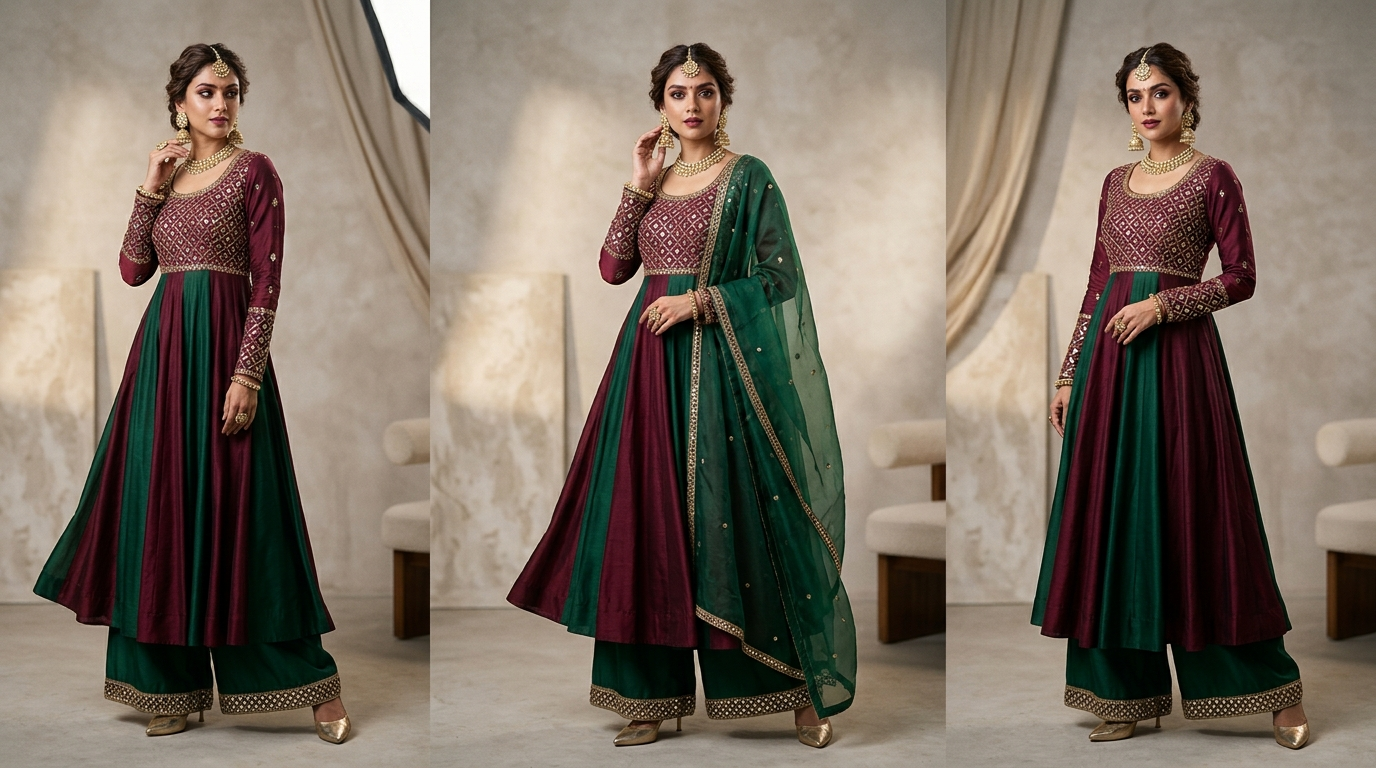
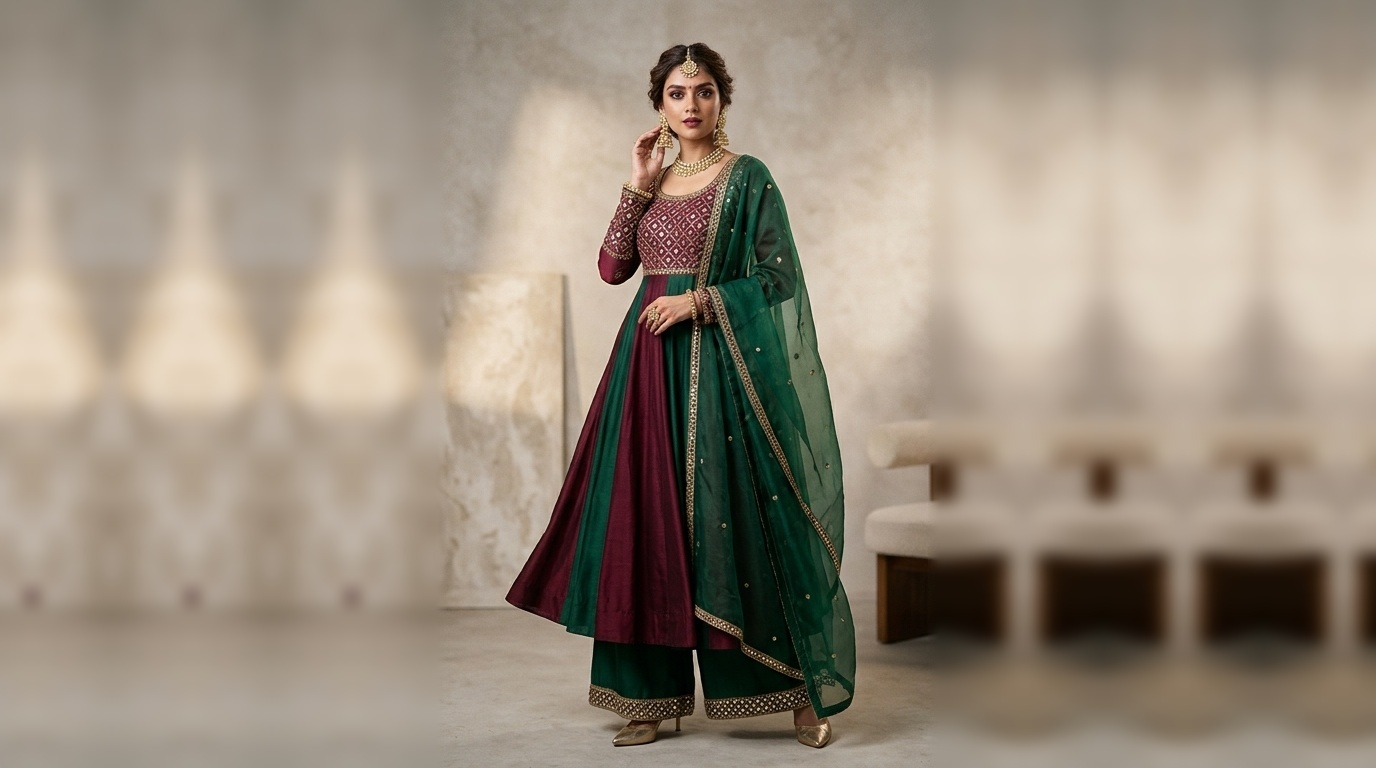
Fix model image framing, optimize map container sizing and enhance mobile responsiveness

diff --git a/css/responsive.css b/css/responsive.css
@@ -103,6 +103,11 @@
   .modal-content-wrap {
     padding: 2rem 1.5rem;
   }
+
+  .map-container {
+    height: 320px;
+    margin-bottom: 1.5rem;
+  }
 }
 
 /* --- Mobile Landscape & Small Tablets (max-width: 767px) --- */
@@ -149,13 +154,57 @@
     display: none;
   }
 
+  /* --- Mobile Framing for Models & Images --- */
+  .hero-slide-bg {
+    background-position: center 18%;
+  }
+
+  .collection-card-img,
+  .product-card-img-wrap img,
+  .lookbook-item img,
+  .division-image-wrap img,
+  .legacy-image-wrap img {
+    object-position: center top;
+  }
+
+  /* Prevent side wobbles & ensure clean viewport flow */
+  html, body {
+    overflow-x: hidden;
+    width: 100%;
+  }
+
+  /* Prevent iOS automatic zoom on text inputs */
+  .form-control,
+  input,
+  select,
+  textarea {
+    font-size: 16px !important;
+  }
+
   .hero-slider-section {
-    height: calc(100vh - var(--header-height));
-    min-height: 520px;
+    height: calc(100svh - var(--header-height));
+    min-height: 500px;
+    max-height: 700px;
   }
 
   .hero-content {
-    padding-bottom: 5.5rem;
+    padding-bottom: 5rem;
+  }
+
+  .hero-title {
+    font-size: 1.85rem;
+    line-height: 1.2;
+    margin-bottom: 0.65rem;
+  }
+
+  .hero-description {
+    font-size: 0.92rem;
+    line-height: 1.45;
+    margin-bottom: 1.25rem;
+    display: -webkit-box;
+    -webkit-line-clamp: 3;
+    -webkit-box-orient: vertical;
+    overflow: hidden;
   }
 
   .hero-controls {
@@ -225,15 +274,25 @@
     padding: 1.75rem 1.25rem;
   }
 
+  /* --- Mobile-Friendly Google Maps Container --- */
+  .map-container {
+    height: 260px;
+    border-radius: 8px;
+    margin-bottom: 1.25rem;
+    box-shadow: var(--shadow-sm);
+  }
+
   .floating-actions {
-    bottom: 1.25rem;
-    right: 1rem;
-    gap: 0.65rem;
+    bottom: 1rem;
+    right: 0.85rem;
+    gap: 0.5rem;
   }
 
   .floating-btn {
-    padding: 0.7rem 1.15rem;
+    padding: 0.65rem 1rem;
     font-size: 0.75rem;
+    border-radius: 30px;
+    box-shadow: 0 4px 16px rgba(0, 0, 0, 0.25);
   }
 
   .footer-top {
@@ -251,7 +310,7 @@
 /* --- Specific Mobile Targets (360px - 430px) --- */
 @media (max-width: 430px) {
   .headline-hero {
-    font-size: 1.95rem;
+    font-size: 1.75rem;
   }
 
   .collections-grid-8 {
@@ -259,11 +318,22 @@
   }
 
   .collection-card-item {
-    height: 300px;
+    height: 280px;
+  }
+
+  .brand-identity {
+    gap: 0.6rem;
+  }
+
+  .brand-logo-img {
+    height: 34px;
+    width: 34px;
+    min-width: 34px;
   }
 
   .brand-name {
-    font-size: 1.15rem;
+    font-size: 1.05rem;
+    letter-spacing: 0.08em;
   }
 
   .brand-divisions {
@@ -277,5 +347,23 @@
 
   .header-ctas .btn-header-wa span {
     display: none;
+  }
+
+  /* Compact Map size on small phone screens */
+  .map-container {
+    height: 220px;
+    border-radius: 6px;
+    margin-bottom: 1rem;
+  }
+
+  .floating-actions {
+    bottom: 0.75rem;
+    right: 0.65rem;
+    gap: 0.45rem;
+  }
+
+  .floating-btn {
+    padding: 0.55rem 0.85rem;
+    font-size: 0.7rem;
   }
 }

diff --git a/dressup.html b/dressup.html
@@ -147,7 +147,7 @@
 
           <!-- 2. Seasonal Cotton Suits -->
           <div class="collection-card-item">
-            <img src="assets/images/hero-slide-4.jpg" alt="Seasonal Cotton Suits" class="collection-card-img" loading="lazy">
+            <img src="assets/images/model-anarkali-portrait.jpg" alt="Seasonal Cotton Suits" class="collection-card-img" loading="lazy">
             <div class="collection-card-overlay">
               <span class="badge badge-gold" style="width: fit-content; margin-bottom: 0.4rem;">Everyday</span>
               <h3 class="collection-card-title">Seasonal Cotton Suits</h3>
@@ -209,8 +209,8 @@
 
           <!-- Product 2 -->
           <div class="product-card">
-            <div class="product-card-img-wrap" data-lightbox-src="assets/images/hero-slide-4.jpg" data-title="Emerald & Maroon Dual Tone Anarkali" data-category="Anarkali Sets">
-              <img src="assets/images/hero-slide-4.jpg" alt="Dual Tone Anarkali" loading="lazy">
+            <div class="product-card-img-wrap" data-lightbox-src="assets/images/model-anarkali-portrait.jpg" data-title="Emerald & Maroon Dual Tone Anarkali" data-category="Anarkali Sets">
+              <img src="assets/images/model-anarkali-portrait.jpg" alt="Dual Tone Anarkali" loading="lazy">
               <div class="product-badges">
                 <span class="badge badge-green">Anarkali Set</span>
                 <span class="badge badge-gold">Festive Edit</span>

diff --git a/css/components.css b/css/components.css
@@ -1273,17 +1273,21 @@
 /* Google Maps Iframe */
 .map-container {
   width: 100%;
-  height: 440px;
-  border-radius: 4px;
+  height: 380px;
+  border-radius: 8px;
   overflow: hidden;
   border: 1px solid var(--color-border);
   box-shadow: var(--shadow-md);
+  position: relative;
+  background-color: var(--color-creme);
+  margin-bottom: 2rem;
 }
 
 .map-container iframe {
   width: 100%;
   height: 100%;
   border: none;
+  display: block;
 }
 
 /* Toast Message */

diff --git a/contact.html b/contact.html
@@ -269,7 +269,7 @@
           <p>Easily accessible from all major connecting roads in Tohana, Fatehabad, and surrounding Haryana districts.</p>
         </div>
 
-        <div class="map-container" style="height: 480px; margin-bottom: 2rem;">
+        <div class="map-container">
           <iframe 
             src="https://maps.google.com/maps?q=Gandhi+Gate,+Tohana,+Haryana&t=&z=15&ie=UTF8&iwloc=&output=embed" 
             loading="lazy" 
